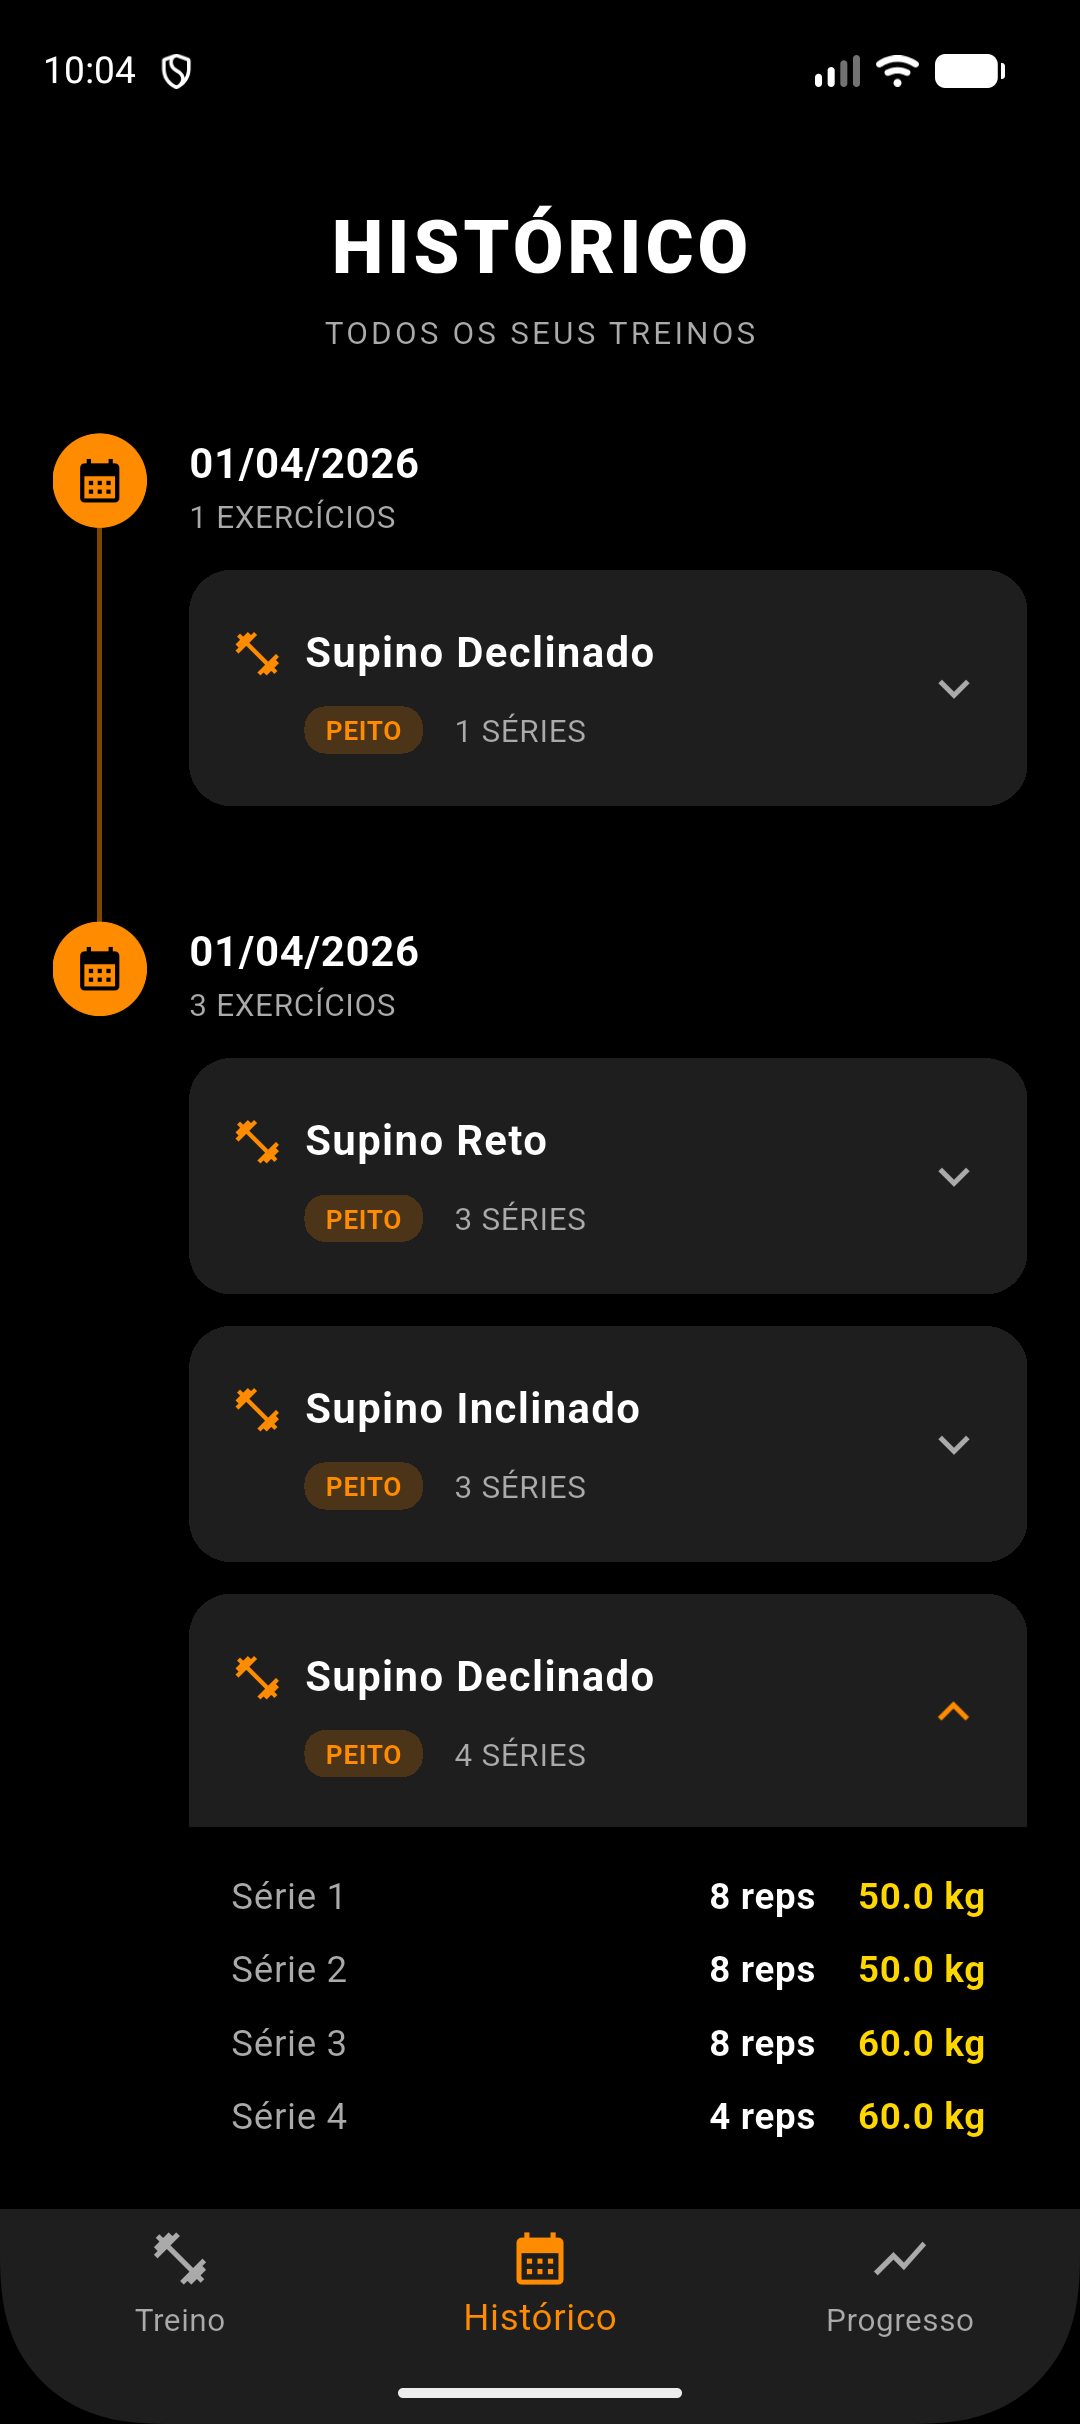
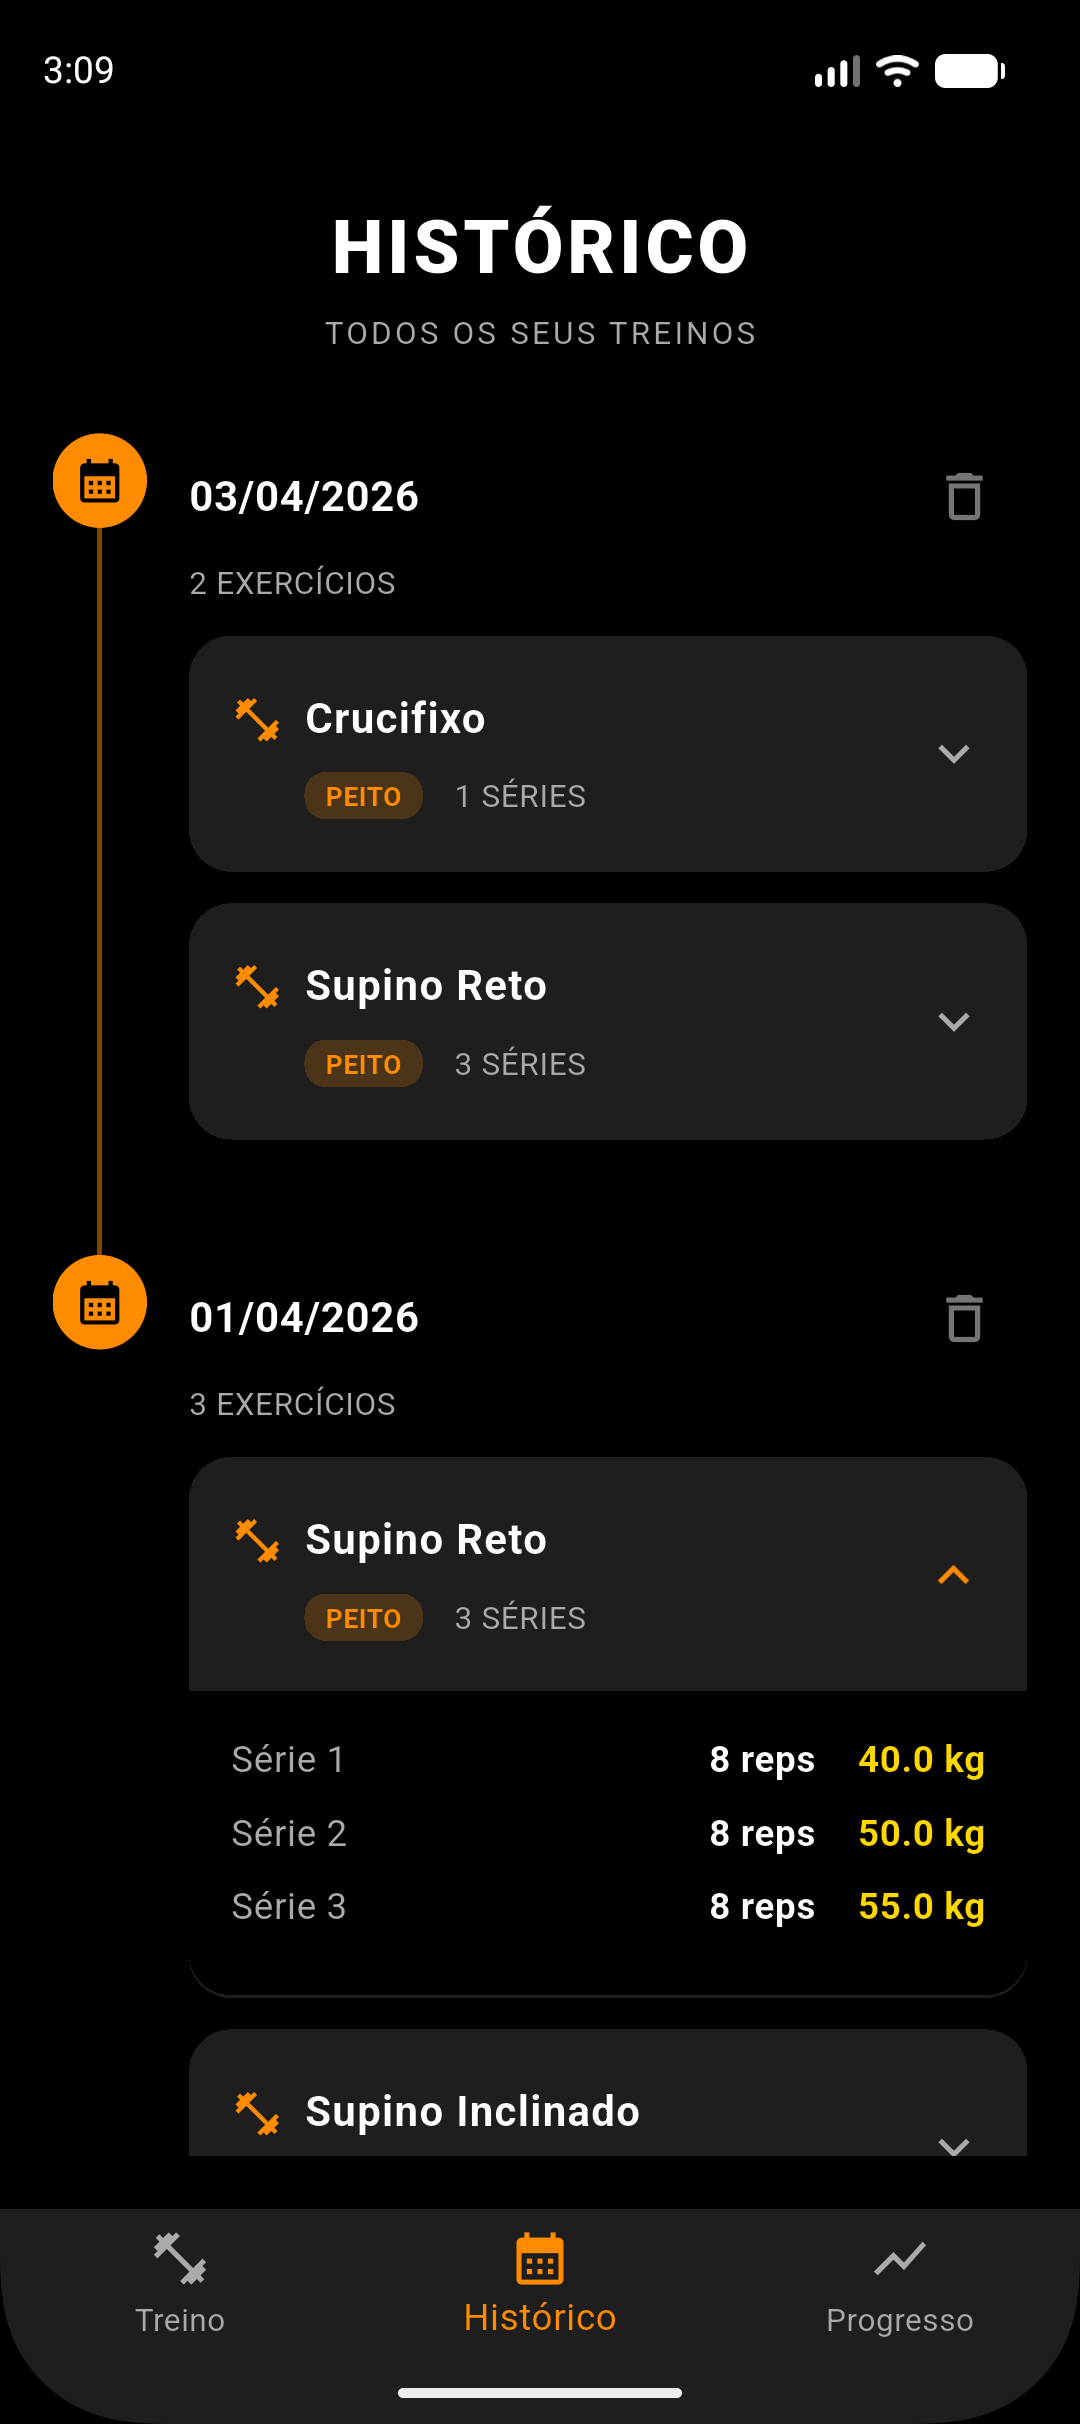
docs: atualizacao das capturas de tela de demonstracao do README
- Substituicao das imagens antigas (treino.png, historico.png, progresso.png) pelas versoes atualizadas.
- As novas imagens refletem os recentes refinamentos de UI/UX, como os controles minimalistas do cronometro, a lixeira para exclusao de treinos e os layouts otimizados.

diff --git a/lib/screens/treino_screen.dart b/lib/screens/treino_screen.dart
@@ -319,7 +319,7 @@ class _TreinoScreenState extends State<TreinoScreen> {
                   const Align(
                     alignment: Alignment.centerLeft,
                     child: Text(
-                      'JÁ REALIZADOS HOJE:',
+                      'JÁ REALIZADOS:',
                       style: TextStyle(
                         fontSize: 14,
                         fontWeight: FontWeight.bold,
